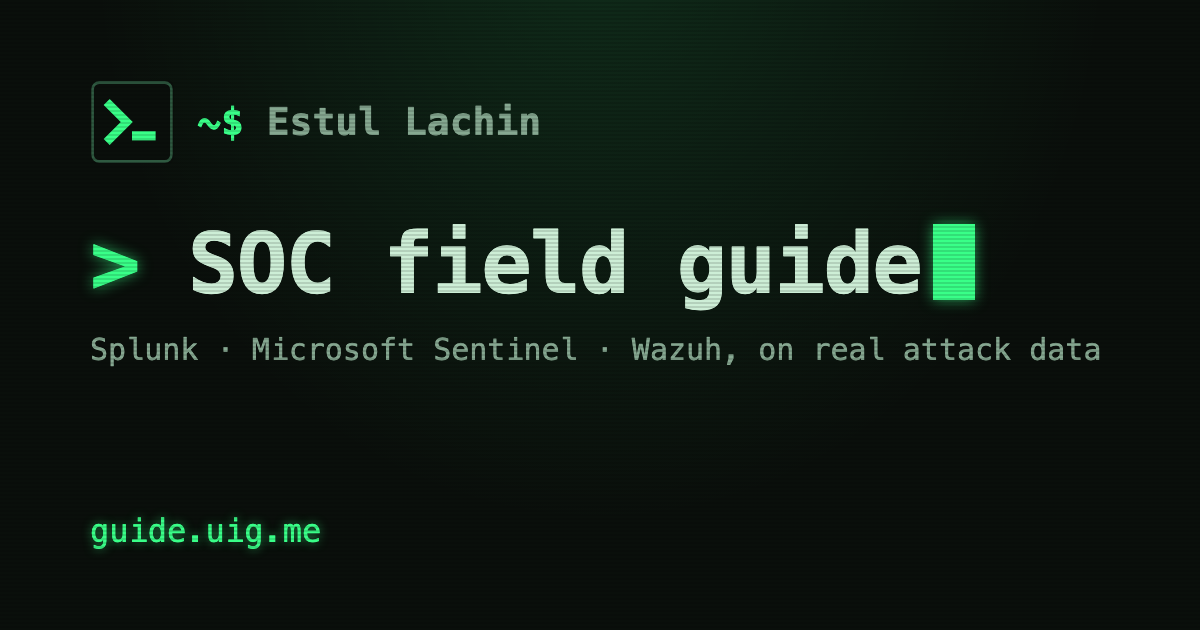
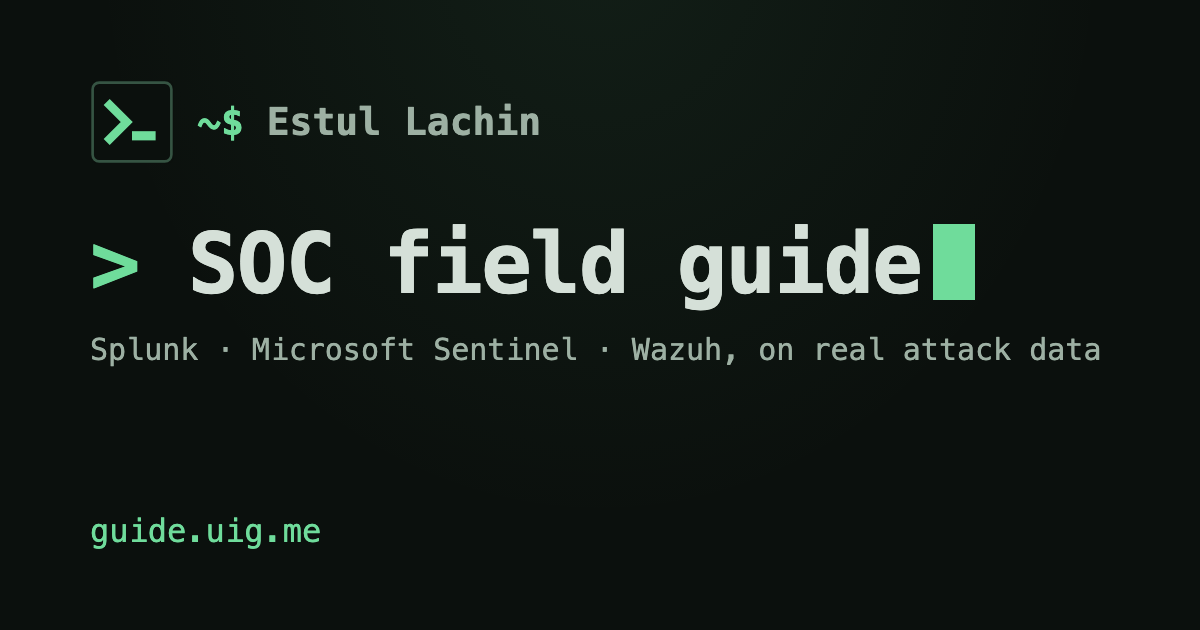
Calmer theme: no glow, no scanlines, softer accent
The neon green, text glow and CRT scanlines were tiring to read. The shared
block now uses a softer accent (#6fdc9b), neutral off-white text, no glow and
no scanline overlay, and the header cursor blinks four times, then stays solid.
The favicon and link-preview image are recoloured to match.

diff --git a/site/style.css b/site/style.css
@@ -3,27 +3,27 @@
 
 
 :root {
-  --bg: #0a0f0b;
-  --surface: #0f1712;
-  --text: #cdeed6;
-  --muted: #86a891;
-  --dim: #6f8f79;
-  --border: #20392a;
-  --border-strong: #2f5a41;
-  --accent: #39ff88;
-  --accent-2: #4fd6ff;
-  --warn: #ffb347;
-  --danger: #ff5c7a;
-  --ok: #39ff88;
-  --chip: #12211a;
-  --code-bg: #0c1a12;
-  --glow: 0 0 6px rgba(57, 255, 136, 0.45);
+  --bg: #0b100d;
+  --surface: #111915;
+  --text: #d5e0d8;
+  --muted: #9db0a3;
+  --dim: #7a8d80;
+  --border: #223329;
+  --border-strong: #365443;
+  --accent: #6fdc9b;
+  --accent-2: #7cc4e4;
+  --warn: #e6b36a;
+  --danger: #ee8090;
+  --ok: #6fdc9b;
+  --chip: #16221c;
+  --code-bg: #0f1813;
+  --glow: none; /* no blurred text: it tires the eyes */
   --radius: 2px;
   --font: ui-monospace, SFMono-Regular, "SF Mono", Menlo, Consolas, "Liberation Mono", monospace;
   --mono: var(--font);
   /* long-form prose (articles, READMEs) reads faster in a proportional face */
   --prose: system-ui, -apple-system, "Segoe UI", Roboto, "Helvetica Neue", Arial, sans-serif;
-  --high: #ff5c7a; --medium: #ffb347; --low: #4fd6ff;
+  --high: #ee8090; --medium: #e6b36a; --low: #7cc4e4;
   color-scheme: dark;
 }
 
@@ -37,17 +37,10 @@ body {
   margin: 0;
   min-height: 100vh;
   background:
-    radial-gradient(ellipse at 50% -10%, rgba(57, 255, 136, 0.07), transparent 60%),
+    radial-gradient(ellipse at 50% -10%, rgba(111, 220, 155, 0.04), transparent 60%),
     var(--bg);
   color: var(--text);
   font: 15px/1.7 var(--font);
-}
-
-/* CRT scanlines: static, decorative, never intercepts clicks */
-body::before {
-  content: ""; position: fixed; inset: 0; z-index: 100; pointer-events: none;
-  background: repeating-linear-gradient(to bottom, rgba(0, 0, 0, 0) 0, rgba(0, 0, 0, 0) 2px,
-    rgba(0, 0, 0, 0.18) 3px, rgba(0, 0, 0, 0) 4px);
 }
 
 ::selection { background: var(--accent); color: var(--bg); }
@@ -62,7 +55,7 @@ a:hover { text-decoration: underline; text-underline-offset: 3px; text-shadow: v
 [id] { scroll-margin-top: 72px; }
 
 .site-header {
-  border-bottom: 1px solid var(--border); background: rgba(10, 15, 11, 0.85);
+  border-bottom: 1px solid var(--border); background: rgba(11, 16, 13, 0.92);
   position: sticky; top: 0; z-index: 10; backdrop-filter: blur(6px);
 }
 .site-header .wrap { display: flex; align-items: center; justify-content: space-between; height: 56px; gap: 16px; }
@@ -71,7 +64,7 @@ a:hover { text-decoration: underline; text-underline-offset: 3px; text-shadow: v
 .brand::after {
   content: ""; display: inline-block; width: 0.55em; height: 1.05em; margin-left: 4px;
   vertical-align: -0.15em; background: var(--accent); box-shadow: var(--glow);
-  animation: blink 1.1s steps(1) infinite;
+  animation: blink 1.1s steps(1) 4; /* blinks a few times, then stays solid */
 }
 .brand:hover { text-decoration: none; }
 .site-header nav { display: flex; flex-wrap: wrap; gap: 6px 18px; }
@@ -109,7 +102,7 @@ h3 { font-size: 1rem; margin: 0 0 6px; }
     color-scheme: light;
   }
   body { background: #fff; }
-  body::before, .brand::after { display: none; }
+  .brand::after { display: none; }
   * { text-shadow: none !important; box-shadow: none !important; }
   .site-header { position: static; background: #fff; backdrop-filter: none; }
 }
@@ -136,7 +129,7 @@ main.wrap.notfound { padding-top: 64px; }
 
 .items { list-style: none; padding: 0; margin: 0; display: grid; grid-template-columns: repeat(2, minmax(0, 1fr)); gap: 12px; }
 .item { background: var(--surface); border: 1px solid var(--border); border-radius: var(--radius); padding: 14px 16px; min-width: 0; transition: border-color 0.15s, box-shadow 0.15s; }
-.item:hover { border-color: var(--accent); box-shadow: 0 0 0 1px rgba(57, 255, 136, 0.15), 0 0 18px rgba(57, 255, 136, 0.12); }
+.item:hover { border-color: var(--accent); box-shadow: 0 0 0 1px rgba(111, 220, 155, 0.09), 0 0 18px rgba(111, 220, 155, 0.07); }
 .item-head { display: flex; justify-content: space-between; gap: 12px; align-items: baseline; font-weight: 600; }
 .item-head a { color: var(--text); }
 .item:hover .item-head a { color: var(--accent); }
@@ -180,7 +173,7 @@ video { width: 100%; height: auto; background: #000; border: 1px solid var(--bor
 /* hands-on calendar: one cell per day, darker = fewer searches */
 .calendar { display: grid; grid-auto-flow: column; grid-template-rows: repeat(7, 11px); gap: 3px; overflow-x: auto; padding: 4px 0; }
 .calendar span { width: 11px; height: 11px; border-radius: 1px; background: var(--chip); border: 1px solid var(--border); }
-.calendar .l1 { background: #14532f; } .calendar .l2 { background: #1d9e55; } .calendar .l3 { background: #39ff88; }
+.calendar .l1 { background: #14532f; } .calendar .l2 { background: #1d9e55; } .calendar .l3 { background: #6fdc9b; }
 .calendar .l4 { background: #9af5bb; }
 
 @media (max-width: 760px) {

diff --git a/assets/og-image.html b/assets/og-image.html
@@ -3,26 +3,22 @@
 <html><head><meta charset="utf-8"><style>
   html, body { margin: 0; width: 1200px; height: 630px; overflow: hidden; }
   body {
-    background: radial-gradient(ellipse at 50% -10%, rgba(57,255,136,0.12), transparent 60%), #0a0f0b;
-    color: #cdeed6; box-sizing: border-box; padding: 80px 90px; position: relative;
+    background: radial-gradient(ellipse at 50% -10%, rgba(111,220,155,0.07), transparent 60%), #0b100d;
+    color: #d5e0d8; box-sizing: border-box; padding: 80px 90px; position: relative;
     font-family: ui-monospace, SFMono-Regular, "SF Mono", Menlo, monospace;
     display: flex; flex-direction: column;
   }
-  body::before {
-    content: ""; position: absolute; inset: 0;
-    background: repeating-linear-gradient(to bottom, transparent 0, transparent 2px, rgba(0,0,0,0.25) 3px, transparent 4px);
-  }
   .top { display: flex; align-items: center; gap: 24px; }
   .top img { width: 84px; height: 84px; }
-  .name { font-size: 38px; font-weight: 600; color: #86a891; }
-  .name::before { content: "~$ "; color: #39ff88; }
+  .name { font-size: 38px; font-weight: 600; color: #9db0a3; }
+  .name::before { content: "~$ "; color: #6fdc9b; }
   h1 { font-size: 84px; line-height: 1.05; margin: 56px 0 24px; letter-spacing: -0.02em; }
-  h1::before { content: "> "; color: #39ff88; text-shadow: 0 0 14px rgba(57,255,136,0.6); }
+  h1::before { content: "> "; color: #6fdc9b; }
   h1::after { content: ""; display: inline-block; width: 0.5em; height: 0.9em; margin-left: 12px; vertical-align: -0.08em;
-    background: #39ff88; box-shadow: 0 0 14px rgba(57,255,136,0.6); }
-  .by { font-size: 30px; color: #86a891; }
-  .url span { color: #2f5a41; }
-  .url { margin-top: auto; font-size: 32px; color: #39ff88; text-shadow: 0 0 10px rgba(57,255,136,0.5); }
+    background: #6fdc9b; }
+  .by { font-size: 30px; color: #9db0a3; }
+  .url span { color: #365443; }
+  .url { margin-top: auto; font-size: 32px; color: #6fdc9b; }
 </style></head><body>
   <div class="top"><img src="favicon.svg" alt=""><span class="name">Estul Lachin</span></div>
   <h1>SOC field guide</h1>
